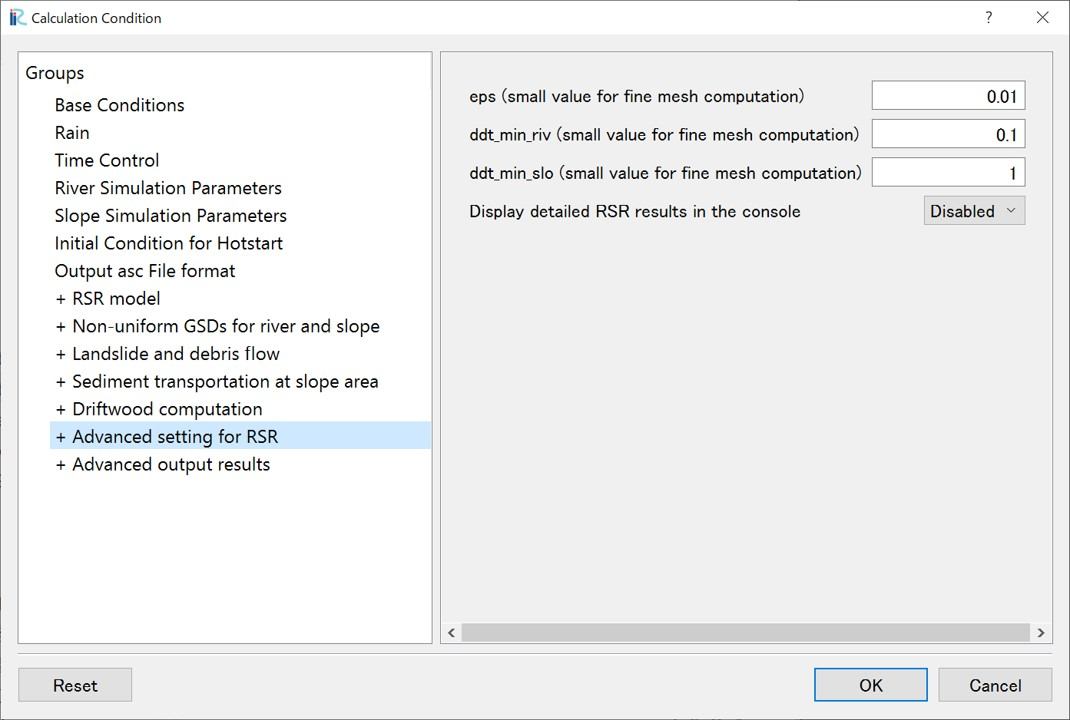
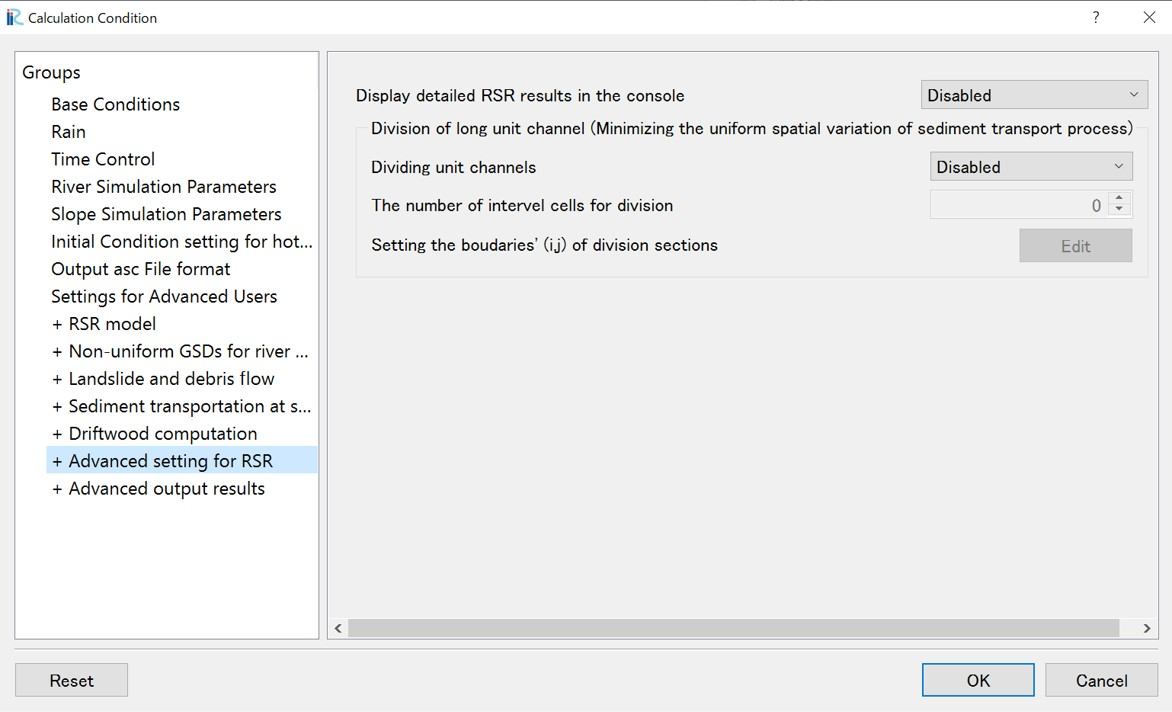
harada v1_7

diff --git a/source/02/06_rsr.rst b/source/02/06_rsr.rst
@@ -78,6 +78,7 @@ Next, the detailed calculation conditions (regulations) are explained.
 - Minimum unit channel slope：When employing the Egashira et al. formula for bed load transport, the exchange layer thickness is dynamically evaluated. If the bed slope of the unit river channel is milder than this value, this value will be set as the unit river channel bed slope.
 - Maximum unit channel slope (degree)：If the gradient of a channel cell is greater than this value, cells upstrem of this degree will not be treated as the unit channel.
 - Minimum river depth for sediment computation(m)：The average water depth of the river channel cells within a unit channel is employed as the water depth for the unit channel. If the water depth is shallower than this value, sediment transport calculations will not be performed at that unit channel.
+- In cases where significant sediment are suddenly supplied to a river channel (e.g., during sediment floods or debris flows), the channel may become fully clogged, hindering further downstream sediment transport. To solve this, enabling this function will simulate sediment overflow onto the floodplain when the channel capacity is nearing exhaustion due to deposition. This prevents further sediment accumulation within the channel.
 
 6.3. Non-uniform GSDs for river and slope
 --------------------------------------------------
@@ -136,11 +137,12 @@ The density of standing trees is set as a parameter.
 
 6.7. Advanced settings for the RSR model
 --------------------------------------------------
-The RRI model uses the Adaptive Runge-Kutta method, which automatically adjusts the calculation time step (default: 600 seconds for slopes, 60 seconds for river channels, see Section 3.3) 
-to ensure that the error in the convergence calculation is below a certain value (eps). 
-When using a small mesh size, such as 10m, in the RSR model analysis, reducing the value of eps (for example, by one order of magnitude) can stabilize the calculation.
-Similarly, ddt_min_riv is the truncation error for river channel calculations, and ddt_min_slo is the truncation error for slope calculations.
-When using a small mesh size like 10m, reducing these values by about one order of magnitude can help prevent calculation failures.
+In the RSR model, unit channels, which are defined as the sections between confluences, are automatically generated across the entire watershed based on topographic data. 
+Therefore, if there are no confluences over a long stretch, a single unit channel can become extremely long. 
+To avoid this, this function allows you to divide long unit channels into several smaller ones. 
+By specifying the start and end coordinates (i, j) of the section you wish to divide and setting the desired number of divisions, you can effectively segment the unit channel.
+
+It is also possible to output detailed calculation results to the solver console
 
 .. figure:: img/RSR_cond_7_en.jpg
    :scale: 60%

diff --git a/source/02/03_cond.rst b/source/02/03_cond.rst
@@ -1,12 +1,13 @@
 3. Set calculation conditions
 ~~~~~~~~~~~~~~~~~~~~~~~~~~~~~~
 
-Launch the iRIC software and select "Rainfall-Runoff-Inundation v1.4.2.3" from "New Project."
+Launch the iRIC software and select "Rainfall-Runoff-Inundation v1.4.2.2" from "New Project."
 
 RRI on iRIC primarily involves specifying and creating grid and grid attribute values through the "Calculation Conditions" menu.
 
 Click on "Calculation Conditions > Settings."
 
+- Please note that the screenshots may slightly differ from the latest interface, but the content remains the same.
 
 3.1 Creating Grids and Grid Attributes
 +++++++++++++++++++++++++++++++++++++++
@@ -243,4 +244,22 @@ Hot start is used when you want to start a calculation using the results of a pr
      - Conditions
    * - .. image:: img/cond_8_en.jpg
      - | - Hotstart 
+
+
+3.7 Settings for Advanced Users
+++++++++++++++++++++++++++++++
+The RRI model uses the Adaptive Runge-Kutta method, which automatically adjusts the calculation time step (default: 600 seconds for slopes, 60 seconds for river channels, see Section 3.3) 
+to ensure that the error in the convergence calculation is below a certain value (eps). 
+When using a small mesh size, such as 10m, in the RSR model analysis, reducing the value of eps (for example, by one order of magnitude) can stabilize the calculation.
+Similarly, ddt_min_riv is the truncation error for river channel calculations, and ddt_min_slo is the truncation error for slope calculations.
+When using a small mesh size like 10m, reducing these values by about one order of magnitude can help prevent calculation failures.
+
+.. list-table:: Settings for Advanced Users
+   :widths: 70 30
+   :header-rows: 1
+
+   * - Screen
+     - Conditions
+   * - .. image:: img/RSR_cond83_en.jpg
+     - | - Settings for Advanced Users 
 

diff --git a/source/01_introduction.rst b/source/01_introduction.rst
@@ -18,9 +18,8 @@ This document focuses on explaining how to use this program, RRI on iRIC, within
 
 About RRI on iRIC
 ------------------------------
-RRI on iRIC is modified and released based on items ii and iii of Chapter 1 of the `Rainfall-Runoff-Inundation (RRI) Model Program Terms of Use <https://www.pwri.go.jp/icharm/research/rri/rri_contract_j.html>`_
-Therefore, when publishing or distributing the calculation results using RRI on iRIC (hereafter referred to as "this program"), please clearly state the following:
-
+'RRI on iRIC' has been modified and released for use with iRIC, based on the provisions of Chapter 1, items ii and iii of the ' `Rainfall-Runoff-Inundation (RRI) Model Program Terms of Use <https://www.pwri.go.jp/icharm/research/rri/rri_contract_j.html>`_' 
+Therefore, when publishing or distributing calculation results obtained from RRI on iRIC (hereinafter referred to as 'this program'), please include the following information."
 ---
 
 - The copyright of the original work of this program (hereafter referred to as "RRI") belongs to the Public Works Research Institute (ICHARM).
@@ -30,18 +29,3 @@ Therefore, when publishing or distributing the calculation results using RRI on 
 ---
 
 
------
-
-Preparing to Use RRI on iRIC
-------------------------------
-
-- 1. Download RRI on iRIC  (the url must be modified later)
-
-    - `rri_v1 <https://uc.i-ric.org/uc_products/rri_on_iric/v4_rri_240521.zip>`_
-
-
-- 2. Extract the downloaded data and copy & paste it into the solver folder of iRIC. By default, this folder is located at "C:/Users/username/iRIC_v4/private/solvers"
-
-- 3. When you launch the iRIC software, RRI will be available for selection.
-
-    .. image:: img/RRI_v4_en3.jpg

diff --git a/source/03/example_1.rst b/source/03/example_1.rst
@@ -14,7 +14,7 @@ This section demonstrates the procedure for simulating the flooding in the Sorac
 The sample data used in this example can be downloaded from the following links:
 
 - Terrain and rainfall dataset  → `data_1 <https://uc.i-ric.org/uc_products/rri_examples/data_1.7z>`_ 
-- iRIC software project file 　→ `data_1_iRIC <https://uc.i-ric.org/uc_products/rri_examples/2016_minami-furano.ipro>`_  
+- iRIC software project file 　→ `data_1_iRIC <https://uc.i-ric.org/uc_products/rri_examples/2016_minami-furano_2.ipro>`_  
 
 
 
